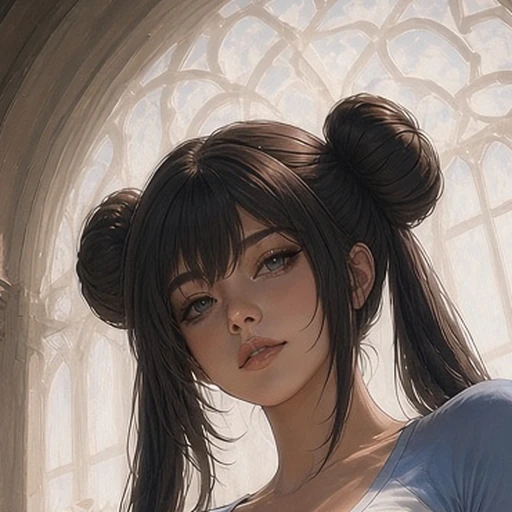
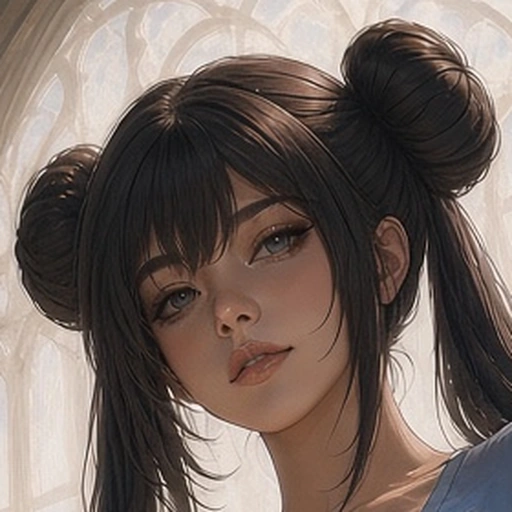
收紧晴葵灵姬棋子头像取景并更新缓存

diff --git a/js/config.js b/js/config.js
@@ -971,7 +971,7 @@
         name: '晴葵灵姬',
         quality: 'tian',
         unlockCond: '踏入仙途（初始免费解锁）',
-        avatar: 'assets/battle/avatars/qingkui.webp?v=3',
+        avatar: 'assets/battle/avatars/qingkui.webp?v=4',
         avatarPos: '58% 13%',
         avatarScale: 2.6,
         img: 'assets/hero_qingkui_hd.jpg?v=2',

diff --git a/index.html b/index.html
@@ -575,7 +575,7 @@
   </div>
 
   <script src="js/no-zoom.js?v=22"></script>
-  <script src="js/config.js?v=57"></script>
+  <script src="js/config.js?v=58"></script>
   <script src="js/equip.js?v=22"></script>
   <script src="js/state.js?v=28"></script>
   <script src="js/titles.js?v=23"></script>
